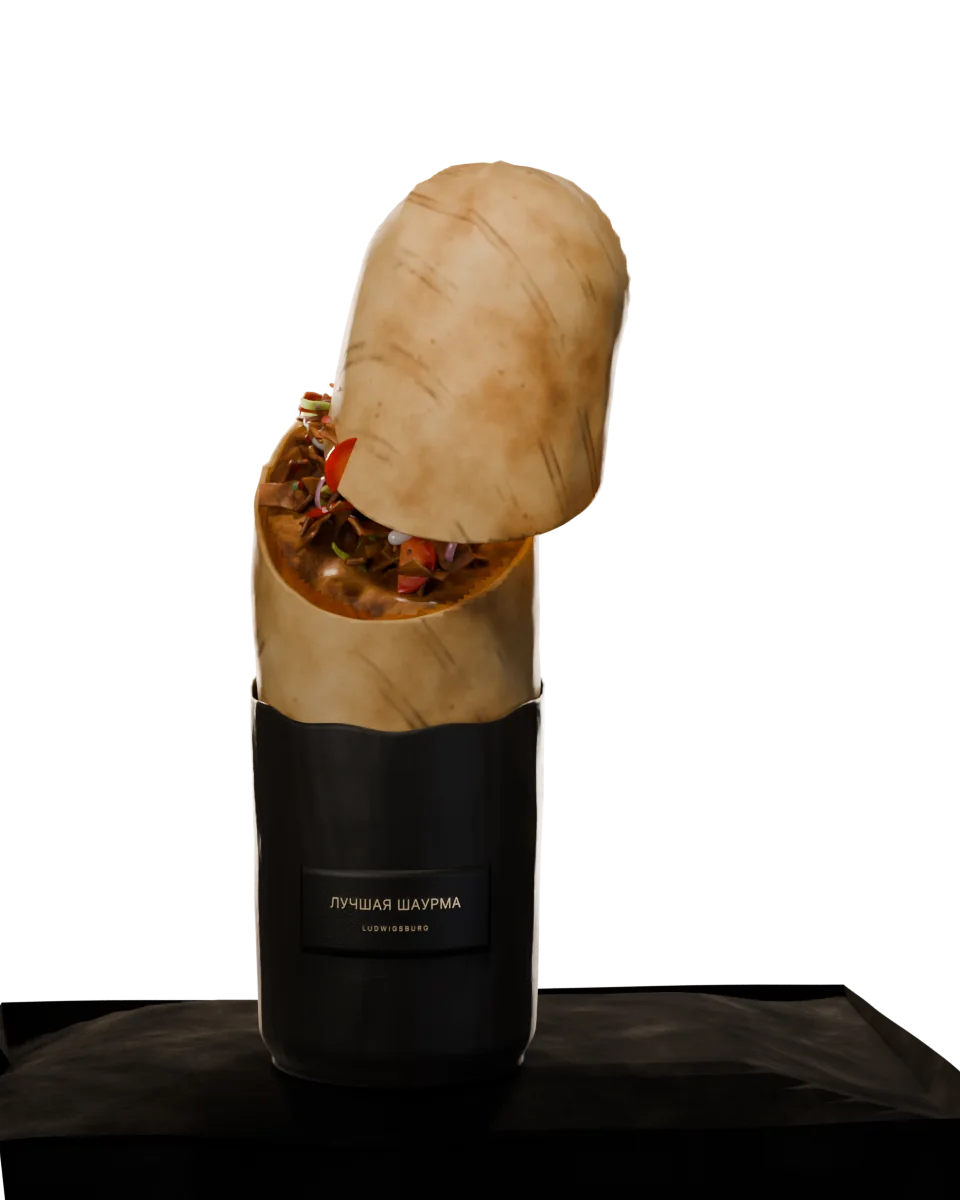
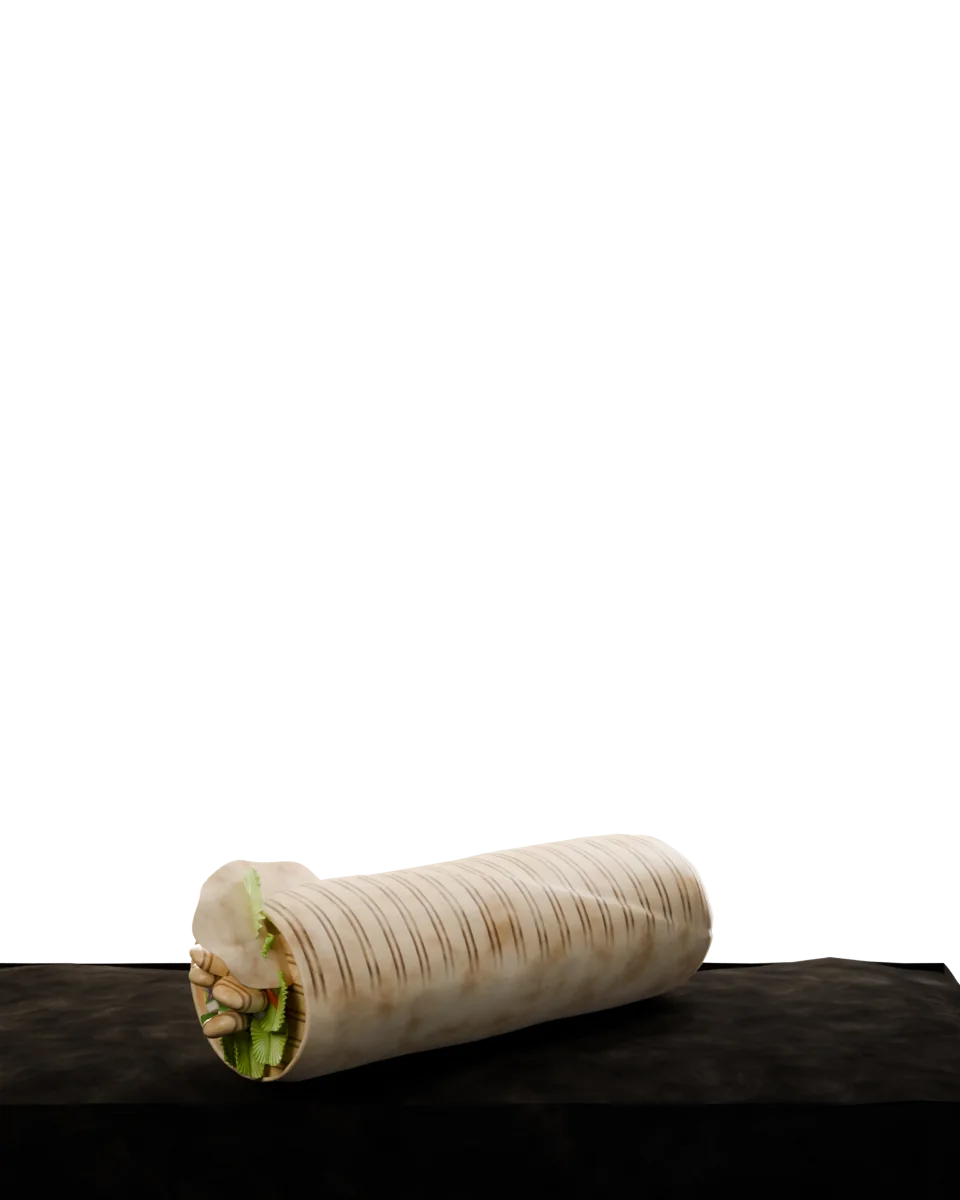
Exploded-ingredient hero animation and build-your-own shawarma game
Hero: a grilled chicken wrap whose ingredients fly out into a labelled
stack on hover and fly back on leave (36 rendered frames, labels projected
from the 3D scene). Game: tap or drag rendered ingredients onto the lavash,
wrap it, and add it to the order with a live price.

Claude-Session: https://claude.ai/code/session_01KNfEvjk6v9WCnWCrGdyFoZ

Changed region(s): [[0.0, 0.1233, 1.0, 0.9558], [0.0, 0.925, 0.0938, 0.9558], [0.0, 0.9867, 0.0312, 1.0]]

diff --git a/styles.css b/styles.css
@@ -297,7 +297,7 @@ button { font: inherit; color: inherit; }
   .headline { order: 2; margin-top: 30px; display: flex; flex-direction: column; }
   .headline span { position: relative; font-size: 20.5vw; }
   .headline__b { align-self: flex-end; margin-top: -2vw; }
-  .product { order: 3; left: auto !important; width: 100%; max-width: 440px; margin: -26vw auto 0; transform: none !important; }
+  .product { order: 3; left: auto !important; width: 82%; max-width: 440px; margin: -4vw 0 0; transform: none !important; }
   .since { order: 4; margin-top: -20px; }
   .chef { display: none; }
   .tiles { grid-template-columns: 1fr; gap: 16px; margin-top: 40px; }
@@ -321,6 +321,7 @@ button { font: inherit; color: inherit; }
   position: absolute; display: flex; align-items: center; gap: 10px; white-space: nowrap;
   font-size: clamp(11px, .95vw, 15px); font-weight: 300; letter-spacing: .02em; color: var(--ink);
   transform: translateY(-50%); opacity: 0; transition: opacity .35s var(--ease);
+  text-shadow: 0 0 10px var(--bg), 0 0 4px var(--bg), 0 0 2px var(--bg);
 }
 .product__labels li::before { content: ""; width: var(--line-w, 60px); height: 1px; background: linear-gradient(90deg, rgba(241, 232, 220, .15), rgba(241, 232, 220, .7)); transform-origin: left; transform: scaleX(0); transition: transform .5s var(--ease); }
 .product__labels li.is-on { opacity: 1; }
@@ -340,7 +341,7 @@ button { font: inherit; color: inherit; }
 }
 .board.is-over { box-shadow: inset 0 0 0 2px var(--gold), 0 0 60px -10px rgba(227, 121, 60, .5); }
 .board__plate { position: absolute; left: 12%; right: 12%; bottom: 6%; height: 16%; border-radius: 50%; background: radial-gradient(closest-side, rgba(0, 0, 0, .7), transparent); }
-.board__lavash { position: absolute; left: 50%; bottom: 10%; width: 78%; transform: translateX(-50%); transition: transform .7s var(--ease), opacity .5s; user-select: none; }
+.board__lavash { position: absolute; left: 50%; bottom: 12%; width: 70%; transform: translateX(-50%); transition: transform .7s var(--ease), opacity .5s; user-select: none; }
 .board__stack { position: absolute; inset: 0; }
 .board__stack img {
   position: absolute; left: 50%; bottom: var(--b); width: var(--w); translate: -50% 0;
@@ -421,6 +422,10 @@ button { font: inherit; color: inherit; }
   .game__wrap { grid-template-columns: 1fr; }
   .pantry { grid-template-columns: repeat(4, minmax(0, 1fr)); gap: 8px; }
   .ing { padding: 10px 4px; }
+  .board { width: 82%; margin: 0 auto; }
+  .game__steps li { font-size: 12px; padding: 6px 12px 6px 6px; gap: 8px; }
+  .game__steps li span { width: 22px; height: 22px; }
+  .game__side { gap: 18px; }
   .ing img { height: 44px; }
   .ing b { font-size: 11px; }
   .product__labels li { font-size: 10px; gap: 6px; }

diff --git a/main.js b/main.js
@@ -278,13 +278,13 @@
 
   // ───────────── game: build your own shawarma ─────────────
   const INGREDIENTS = [
-    { key: "chicken", name: "Курица", price: 3.0, w: 70, h: 12 },
-    { key: "lettuce", name: "Салат", price: 0.5, w: 72, h: 10 },
-    { key: "tomato", name: "Томат", price: 0.6, w: 64, h: 9 },
-    { key: "cucumber", name: "Огурец", price: 0.5, w: 60, h: 8 },
-    { key: "onion", name: "Красный лук", price: 0.4, w: 60, h: 8 },
-    { key: "sauce", name: "Чесночный соус", price: 0.7, w: 58, h: 9 },
-    { key: "herbs", name: "Зелень", price: 0.3, w: 52, h: 6 },
+    { key: "chicken", name: "Курица", price: 3.0, w: 56, h: 12 },
+    { key: "lettuce", name: "Салат", price: 0.5, w: 58, h: 11 },
+    { key: "tomato", name: "Томат", price: 0.6, w: 52, h: 10 },
+    { key: "cucumber", name: "Огурец", price: 0.5, w: 50, h: 9 },
+    { key: "onion", name: "Красный лук", price: 0.4, w: 48, h: 9 },
+    { key: "sauce", name: "Чесночный соус", price: 0.7, w: 48, h: 10 },
+    { key: "herbs", name: "Зелень", price: 0.3, w: 44, h: 8 },
   ];
   const BASE_PRICE = 2.9;
   const euro = (v) => `${v.toFixed(2).replace(".", ",")} €`;
@@ -323,7 +323,7 @@
     priceEl.textContent = euro(total);
     board.classList.toggle("has-items", picked.length > 0);
     // restack: each layer sits on the one below it
-    let bottom = 19;
+    let bottom = 22;
     const items = [...stack.children].filter((el) => !el.classList.contains("is-leaving"));
     const step = picked.length > 5 ? 0.75 : 1;
     for (const el of items) {
